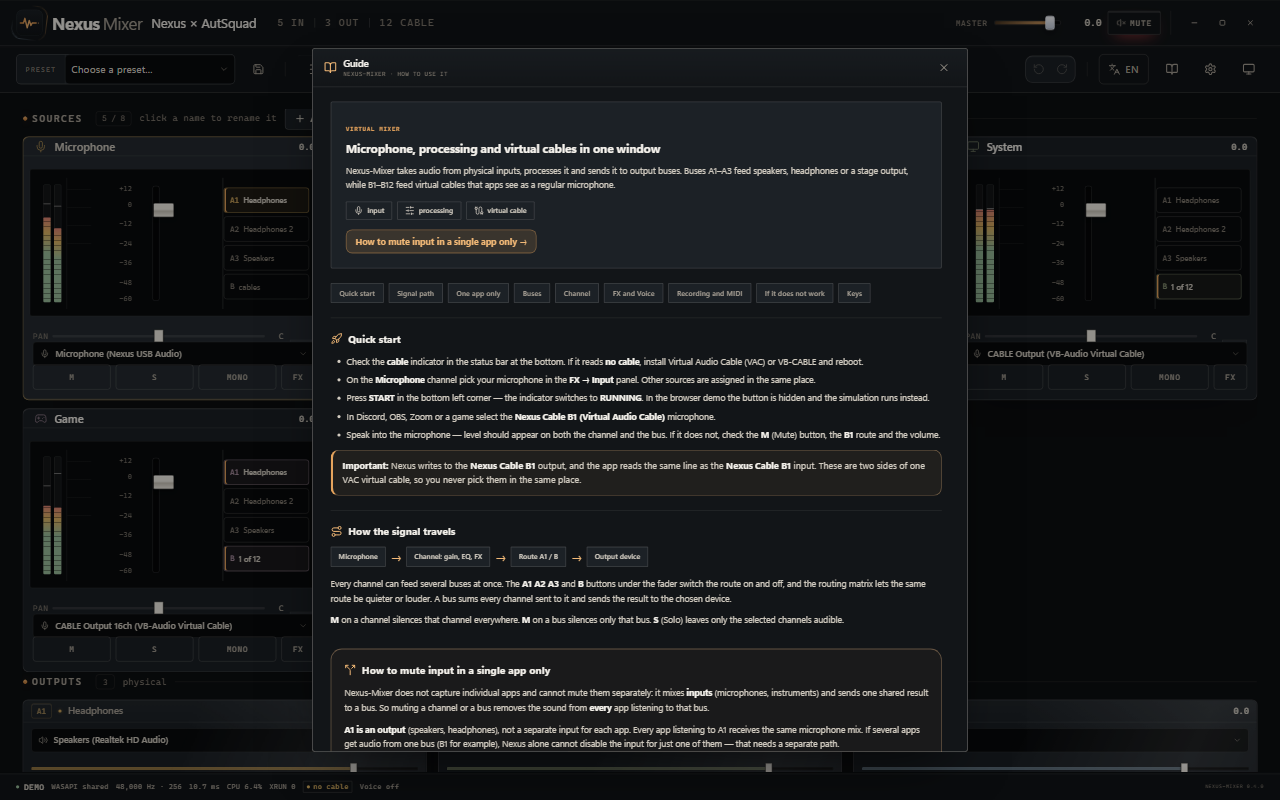
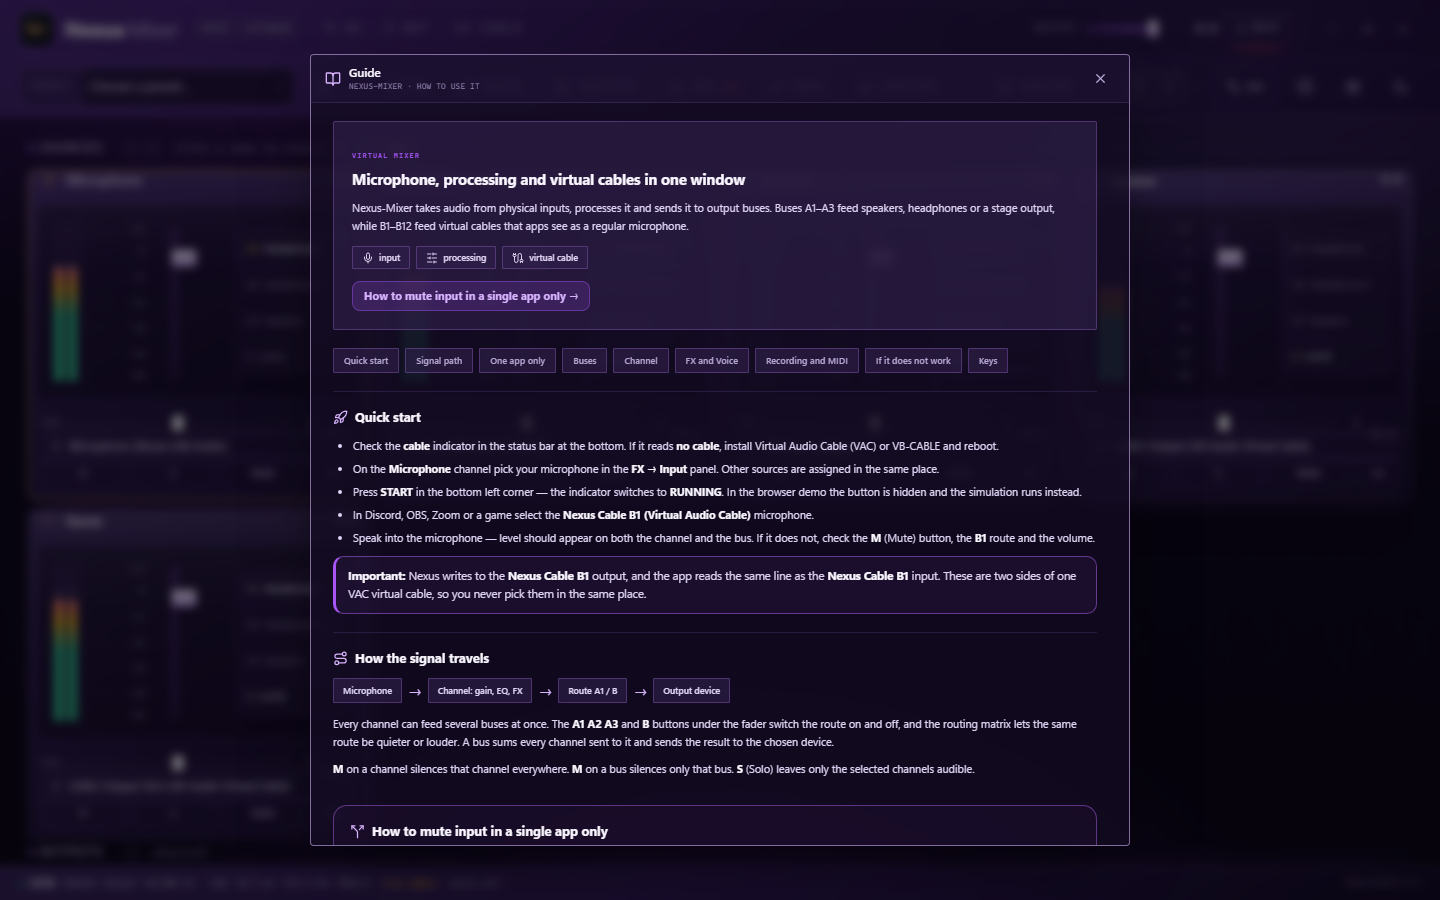
docs: English screenshots for studio, dark and light themes

diff --git a/src/styles/panels.css b/src/styles/panels.css
@@ -1666,6 +1666,15 @@
   font-size: 9px;
   color: var(--text-dim);
   flex: 1;
+  min-width: 0;
+  overflow: hidden;
+  text-overflow: ellipsis;
+  white-space: nowrap;
+}
+.cable-bus-row .pill {
+  flex-shrink: 0;
+  letter-spacing: 0.02em;
+  white-space: nowrap;
 }
 
 /* --------------------------------- end cable ------------------------------- */

diff --git a/README.en.md b/README.en.md
@@ -14,9 +14,21 @@ real-time voice effects.
 
 > **Nexus × AutSquad** · v0.4.0 · Windows 10/11 x64 · Russian and English UI
 
+Three themes in the English interface:
+
+| Nexus-Studio | Nexus-Dark | Nexus-Frost |
+| --- | --- | --- |
+| ![](docs/screenshots/en-theme-studio.png) | ![](docs/screenshots/en-theme-dark.png) | ![](docs/screenshots/en-theme-light.png) |
+
+| Settings | Guide |
+| --- | --- |
+| ![](docs/screenshots/en-settings.png) | ![](docs/screenshots/en-guide.png) |
+
+Russian interface:
+
 | Console | Settings | Guide |
 | --- | --- | --- |
-| ![](docs/screenshots/en-rack.png) | ![](docs/screenshots/en-settings.png) | ![](docs/screenshots/en-guide.png) |
+| ![](docs/screenshots/ru-rack.png) | ![](docs/screenshots/ru-settings.png) | ![](docs/screenshots/ru-guide.png) |
 
 An instrument panel, not a website: channels, meters, routing and buses are visible
 at once, with no tabs and no extra clicks.

diff --git a/README.md b/README.md
@@ -14,6 +14,18 @@
 
 > **Nexus × АутSquad** · v0.4.0 · Windows 10/11 x64 · интерфейс на русском и английском
 
+Три темы в английском интерфейсе:
+
+| Nexus-Studio | Nexus-Dark | Nexus-Frost |
+| --- | --- | --- |
+| ![](docs/screenshots/en-theme-studio.png) | ![](docs/screenshots/en-theme-dark.png) | ![](docs/screenshots/en-theme-light.png) |
+
+| Настройки | Инструкция |
+| --- | --- |
+| ![](docs/screenshots/en-settings.png) | ![](docs/screenshots/en-guide.png) |
+
+Русский интерфейс:
+
 | Консоль | Настройки | Инструкция |
 | --- | --- | --- |
 | ![](docs/screenshots/ru-rack.png) | ![](docs/screenshots/ru-settings.png) | ![](docs/screenshots/ru-guide.png) |
